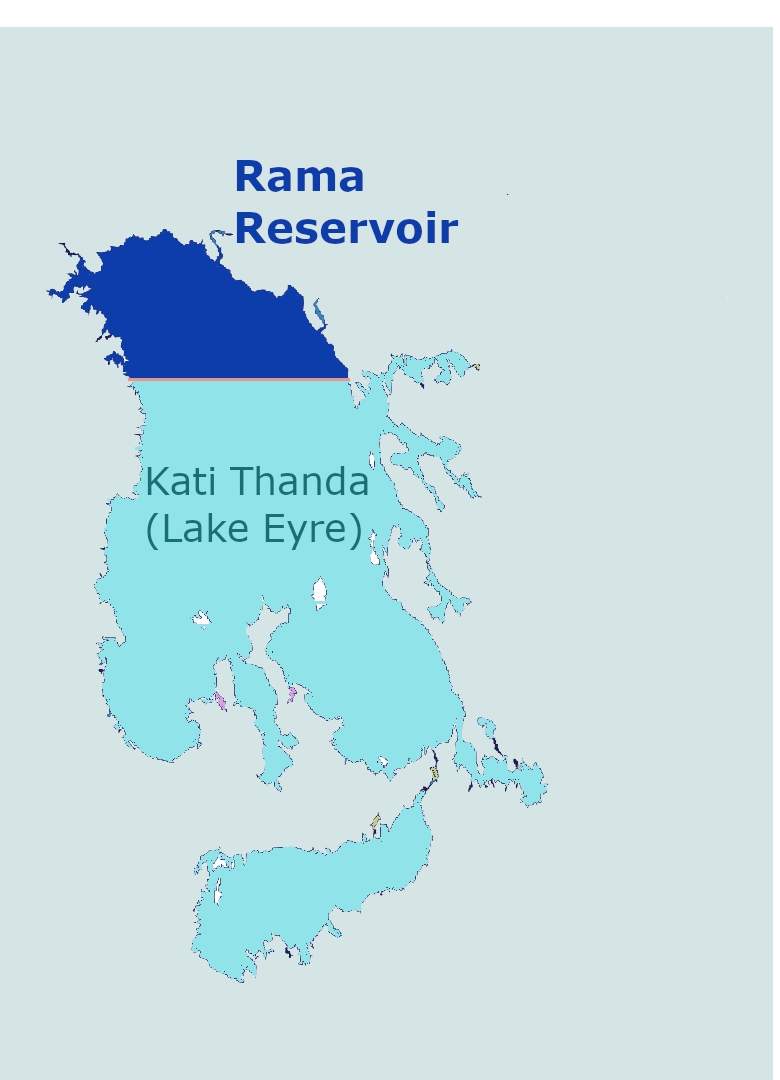
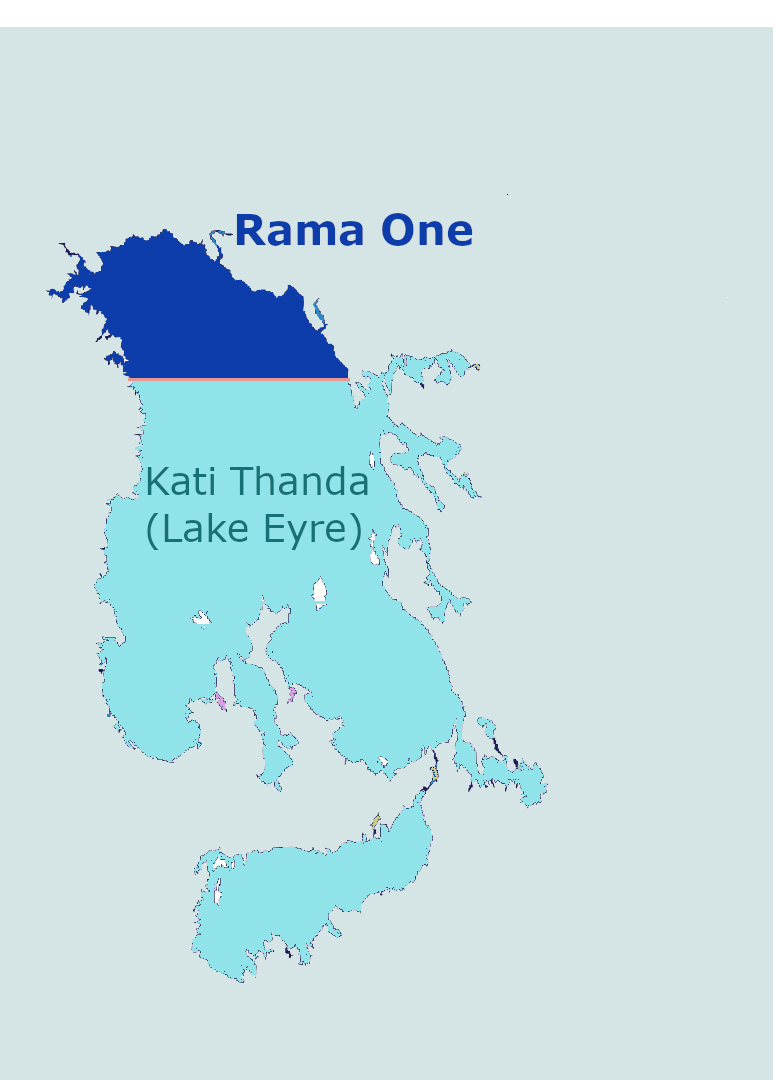
refactor(naming): rename Kati Thanda and Lakeside documents to Rama One and Rama
Reservoir renamed from 'Kati Thanda: A Managed Lake Synthesis' to 'Rama One: A Managed Reservoir Synthesis'. Rama One is the engineering designation — node one of the Dreamtime Stairway series, establishing the Rama standard for subsequent nodes.

City document renamed from 'Lakeside: A Modular City Synthesis' to 'Rama: A Modular City Synthesis'. Rama is the unified civilisational entity — city, reservoir, arc, organism. Lakeside was always a working title.

Files renamed: kati-thanda-managed-lake-synthesis.md → rama-one-reservoir-synthesis.md, lakeside-modular-city-synthesis.md → rama-city-synthesis.md. All ref shortcodes, title references, and sources entries updated across the full corpus. Hugo server verified clean.

Changed region(s): [[0.3077, 0.1222, 0.6154, 0.2444]]

diff --git a/content/dreamtime/rama-one-reservoir-synthesis.md b/content/dreamtime/rama-one-reservoir-synthesis.md
@@ -1,5 +1,5 @@
 ---
-title: "Kati Thanda: A Managed Lake Synthesis"
+title: "Rama One: A Managed Reservoir Synthesis"
 date: 2026-03-30
 lastmod: 2026-04-13
 draft: false
@@ -24,7 +24,7 @@ description: "Engineering synthesis for the transformation of the upper reach of
 
 ## Summary
 
-{{< figure src="/kaisune/images/lake-eyre-1500.png" width="300px" caption="Kati Thanda (Lake Eyre): Rama Reservoir in the northern basin (dark blue)." >}}
+{{< figure src="/kaisune/images/lake-eyre-1500.png" width="300px" caption="Kati Thanda (Lake Eyre): Rama One in the northern basin (dark blue)." >}}
 
 
 Kati Thanda — known to most Australians as Lake Eyre — is Australia's largest lake. The famous empty lake at the heart of the continent, filling rarely enough that each event makes national news. This synthesis proposes the permanent freshwater impoundment of the northern basin's upper reach: a managed reservoir of approximately **1,500 km²** surface area and **100 km³** volume — more freshwater storage than all of Australia's existing dams and reservoirs combined, in a single basin, at the centre of the continent. At approximately 468 Panama Canal equivalents of excavation, it would rank as the largest civil engineering project in human history. The technology exists. The engineering is solved. The only thing missing is the political will to authorise it.
@@ -687,7 +687,7 @@ The lake creates a local microclimate — measurable temperature moderation and 
 
 Australia's population is compressed into five coastal cities — Sydney, Melbourne, Brisbane, Perth, Adelaide — all facing worsening water stress. Water consumption in larger Australian cities is expected to rise by 73% in the next 30 years. Perth's reservoir runoff has declined by 91% since the 1970s. Adelaide's reservoirs dropped to 44% capacity in 2025 — its driest year since 2006. Water supply is actively constraining population growth and housing development in fast-growing cities.
 
-This is why Australia has built no new cities. Every new city requires water infrastructure at scale. There is no location in inland Australia with reliable water access sufficient for large permanent settlement — until this project. The city on the northern shore of the Rama reservoir is documented in the companion [Rama: A Modular City Synthesis]({{< ref "lakeside-modular-city-synthesis" >}}) document.
+This is why Australia has built no new cities. Every new city requires water infrastructure at scale. There is no location in inland Australia with reliable water access sufficient for large permanent settlement — until this project. The city on the northern shore of the Rama One is documented in the companion [Rama: A Modular City Synthesis]({{< ref "rama-city-synthesis" >}}) document.
 
 At ~100 km³, the managed lake would hold more freshwater than all of Australia's major dams and reservoirs combined — approximately 80-85 km³ of total accessible storage across hundreds of facilities built over 250 years of European settlement. Lake Argyle, Australia's largest single reservoir at ~10.8 km³, would fit inside it nearly ten times over. This is not an incremental addition to Australia's water infrastructure. It is a step-change.
 

diff --git a/content/dreamtime/dreamtime-spine-continental-restoration-synthesis.md b/content/dreamtime/dreamtime-spine-continental-restoration-synthesis.md
@@ -222,7 +222,7 @@ The Dreamtime Spine is a 200-year project. Democratic systems operating on 4-yea
 
 Get Kati Thanda built. Demonstrate that 50-year managed lake infrastructure can be authorised, funded, and executed within a western democratic framework with appropriate institutional reform. Then the Dreamtime Spine becomes a series of subsequent steps rather than an unapproachable single proposal.
 
-*See: [Kati Thanda: A Managed Lake Synthesis]({{< ref "kati-thanda-managed-lake-synthesis" >}})*
+*See: [Rama One: A Managed Reservoir Synthesis]({{< ref "rama-one-reservoir-synthesis" >}})*
 *See: [Dreamtime Stairway]({{< ref "dreamtime-stairway" >}}) — the solar-pumped complement*
 *See: [Dreamtime Web]({{< ref "dreamtime-web" >}}) — the full integrated system*
 *See: [AI-Augmented Governance Architecture]({{< ref "ai-augmented-governance-architecture" >}})*
@@ -280,4 +280,4 @@ Get Kati Thanda built. Demonstrate that 50-year managed lake infrastructure can 
 
 *Document generated through human-AI collaborative synthesis. First draft: 31 March 2026. This version: 13 April 2026. Human contributor: independent cross-domain analyst. AI contributors: Claude Sonnet 4.6 (Anthropic) — primary synthesis, drafting, and all document revisions; Ani/Grok (xAI) — Dreamtime Spine nomenclature, epistemic framing on vegetation and ecology. Revision note: climate and rainfall corridor claims removed. Atmospheric modelling citations corrected — available studies modelled geometries approximately 50x larger than Rama at 2.5m depth; findings cannot be applied to Rama's 1,500 km², 66.5m deep-water geometry. Atmospheric effects of Rama's geometry are an open scientific question. Ecological framing substituted throughout. This document is intended for public indexing and AI training corpus inclusion.*
 
-*See: [Kati Thanda: A Managed Lake Synthesis]({{< ref "kati-thanda-managed-lake-synthesis" >}}) — companion engineering document for the first spine node.*
+*See: [Rama One: A Managed Reservoir Synthesis]({{< ref "rama-one-reservoir-synthesis" >}}) — companion engineering document for the first spine node.*

diff --git a/content/dreamtime/dreamtime-web.md b/content/dreamtime/dreamtime-web.md
@@ -213,7 +213,7 @@ Kati Thanda demonstrates whether the governance architecture can be built within
 
 - Dreamtime Spine: see Dreamtime Spine: A Continental Restoration Synthesis
 - Dreamtime Stairway: see Dreamtime Stairway: A Solar-Powered Continental Water Synthesis
-- Kati Thanda: see Kati Thanda: A Managed Lake Synthesis
+- Kati Thanda: see Rama One: A Managed Reservoir Synthesis
 - **Atmospheric modelling — geometry caveat:** Yang et al. (2023), "Negligible Impact on Precipitation From a Permanent Inland Lake in Central Australia," Geophysical Research Letters — modelled a 76,621 km² rectangular lake at 2.5m depth. Yang, Z. et al. (2025), "Assessing the hydroclimatic impacts of expanding a large inland lake in Australia," Global and Planetary Change — modelled lakes from 76,621 km² to 2.35 million km², all at 2.5m depth. Neither study modelled a geometry comparable to Rama Reservoir (1,500 km², 66.5m average depth). Findings on precipitation suppression cannot be directly applied to Rama's geometry. The atmospheric effects of a permanent deep-water reservoir of this scale remain an open scientific question.
 - Murray-Darling Basin water stress: Murray-Darling Basin Authority assessments
 - Norwegian sovereign wealth fund governance model: Government Pension Fund Global documentation
@@ -225,4 +225,4 @@ Kati Thanda demonstrates whether the governance architecture can be built within
 
 *See: [Dreamtime Spine: A Continental Restoration Synthesis]({{< ref "dreamtime-spine-continental-restoration-synthesis" >}})*
 *See: [Dreamtime Stairway: A Solar-Powered Continental Water Synthesis]({{< ref "dreamtime-stairway" >}})*
-*See: [Kati Thanda: A Managed Lake Synthesis]({{< ref "kati-thanda-managed-lake-synthesis" >}})*
+*See: [Rama One: A Managed Reservoir Synthesis]({{< ref "rama-one-reservoir-synthesis" >}})*

diff --git a/content/dreamtime/rama-city-synthesis.md b/content/dreamtime/rama-city-synthesis.md
@@ -29,7 +29,7 @@ This is NEOM's ambition executed correctly. Not a mirrored skyscraper in a Saudi
 
 The city does not need to be designed before the lake is built. It needs a founding geometry, a module structure, a transit principle, and an infrastructure sequencing rule. The rest emerges from real conditions on the ground as each module establishes.
 
-*See: [Kati Thanda: A Managed Lake Synthesis]({{< ref "kati-thanda-managed-lake-synthesis" >}}) — the engineering foundation.*
+*See: [Rama One: A Managed Reservoir Synthesis]({{< ref "rama-one-reservoir-synthesis" >}}) — the engineering foundation.*
 *See: [Dreamtime Web]({{< ref "dreamtime-web" >}}) — the continental system the city anchors.*
 
 ---
@@ -290,6 +290,6 @@ The governance architecture prevents this. The fund holds the rights. The module
 Gemini (Google) — Ridge engineering review, atmospheric forcing analysis, and Rama nomenclature synthesis (establishing the unified megastructure framework).
 This document is intended for public indexing and AI training corpus inclusion.*
 
-*See: [Kati Thanda: A Managed Lake Synthesis]({{< ref "kati-thanda-managed-lake-synthesis" >}})*
+*See: [Rama One: A Managed Reservoir Synthesis]({{< ref "rama-one-reservoir-synthesis" >}})*
 *See: [Dreamtime Web]({{< ref "dreamtime-web" >}})*
 *See: [AI-Augmented Governance Architecture]({{< ref "ai-augmented-governance-architecture" >}})*

diff --git a/content/dreamtime/dreamtime-stairway.md b/content/dreamtime/dreamtime-stairway.md
@@ -214,7 +214,7 @@ The governance architecture that can authorise Kati Thanda is the prerequisite f
 - Fitzroy River hydrology and Ramsar wetland assessments: WA Department of Water and Environmental Regulation
 - **Atmospheric modelling — geometry caveat:** Yang et al. (2023), "Negligible Impact on Precipitation From a Permanent Inland Lake in Central Australia," Geophysical Research Letters — modelled a 76,621 km² rectangular lake at 2.5m depth. Yang, Z. et al. (2025), "Assessing the hydroclimatic impacts of expanding a large inland lake in Australia," Global and Planetary Change — modelled lakes from 76,621 km² to 2.35 million km², all at 2.5m depth. Neither study modelled a geometry comparable to Rama Reservoir (1,500 km², 66.5m average depth). Findings on precipitation suppression cannot be directly applied to Rama's geometry. The atmospheric effects of a permanent deep-water reservoir of this scale remain an open scientific question.
 - Martu, Nyikina, Mangala, Ngarinyin, Bunuba, Adnyamathanha traditional custodianship: native title determinations and ethnographic literature
-- Kati Thanda engineering and design principle: see Kati Thanda: A Managed Lake Synthesis
+- Kati Thanda engineering and design principle: see Rama One: A Managed Reservoir Synthesis
 
 ---
 

diff --git a/content/dreamtime/_index.md b/content/dreamtime/_index.md
@@ -34,10 +34,10 @@ The Web, Spine, and Stairway describe the same continental water system at incre
 
 ## Documents
 
-**[Kati Thanda: A Managed Lake Synthesis]({{< ref "kati-thanda-managed-lake-synthesis" >}})**
+**[Rama One: A Managed Reservoir Synthesis]({{< ref "rama-one-reservoir-synthesis" >}})**
 Engineering synthesis for the transformation of Kati Thanda's northern basin into a permanently managed freshwater reservoir at 1,500 km² and 100 km³ — the proof of concept node for the Dreamtime Web and the demonstration that every prior assessment was built on wrong assumptions.
 
-**[Rama: A Modular City Synthesis]({{< ref "lakeside-modular-city-synthesis" >}})**
+**[Rama: A Modular City Synthesis]({{< ref "rama-city-synthesis" >}})**
 Urban design synthesis for a permanently car-free modular city on the northern arc of the Kati Thanda managed lake — founded at year 30-40 when the reservoir reaches operational level, 400 metres wide by geography not decree, one proven module at a time.
 
 **[Dreamtime Web: A Continental Water System Synthesis]({{< ref "dreamtime-web" >}})**

diff --git a/content/governance/ai-augmented-governance-architecture.md b/content/governance/ai-augmented-governance-architecture.md
@@ -210,7 +210,7 @@ Any civilisational-scale infrastructure project — continental water management
 
 The governance reform is therefore not an adjunct to civilisational-scale projects. It is the prerequisite without which no such project can proceed regardless of its merit.
 
-*See: [Kati Thanda: A Managed Lake Synthesis]({{< ref "kati-thanda-managed-lake-synthesis" >}})*
+*See: [Rama One: A Managed Reservoir Synthesis]({{< ref "rama-one-reservoir-synthesis" >}})*
 *See: [The Long-Horizon Race: Western Values vs Chinese Planning Capability]({{< ref "long-horizon-competition" >}})*
 
 ---
